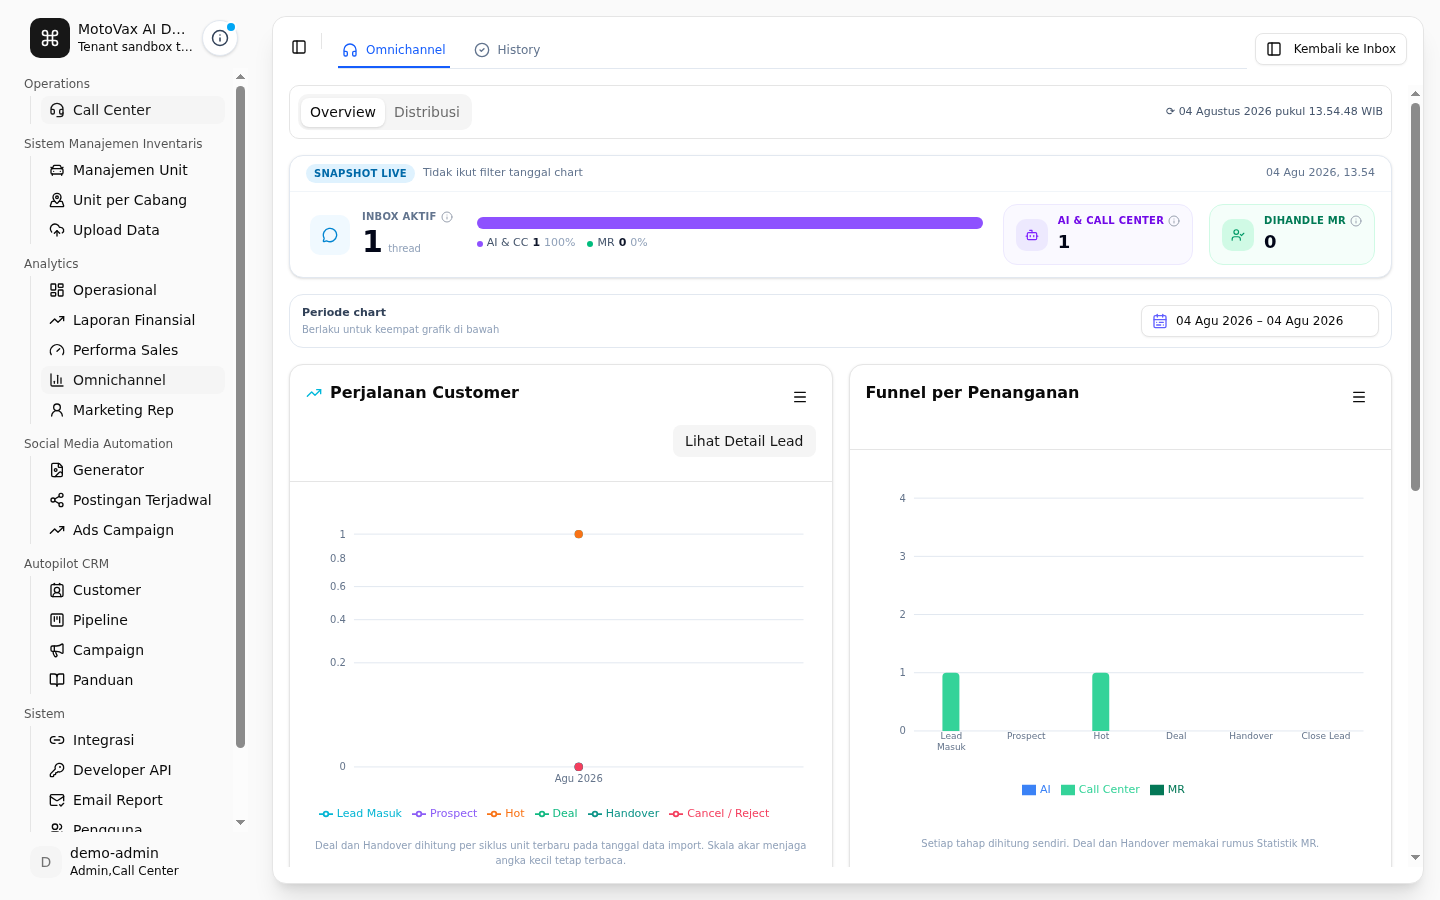
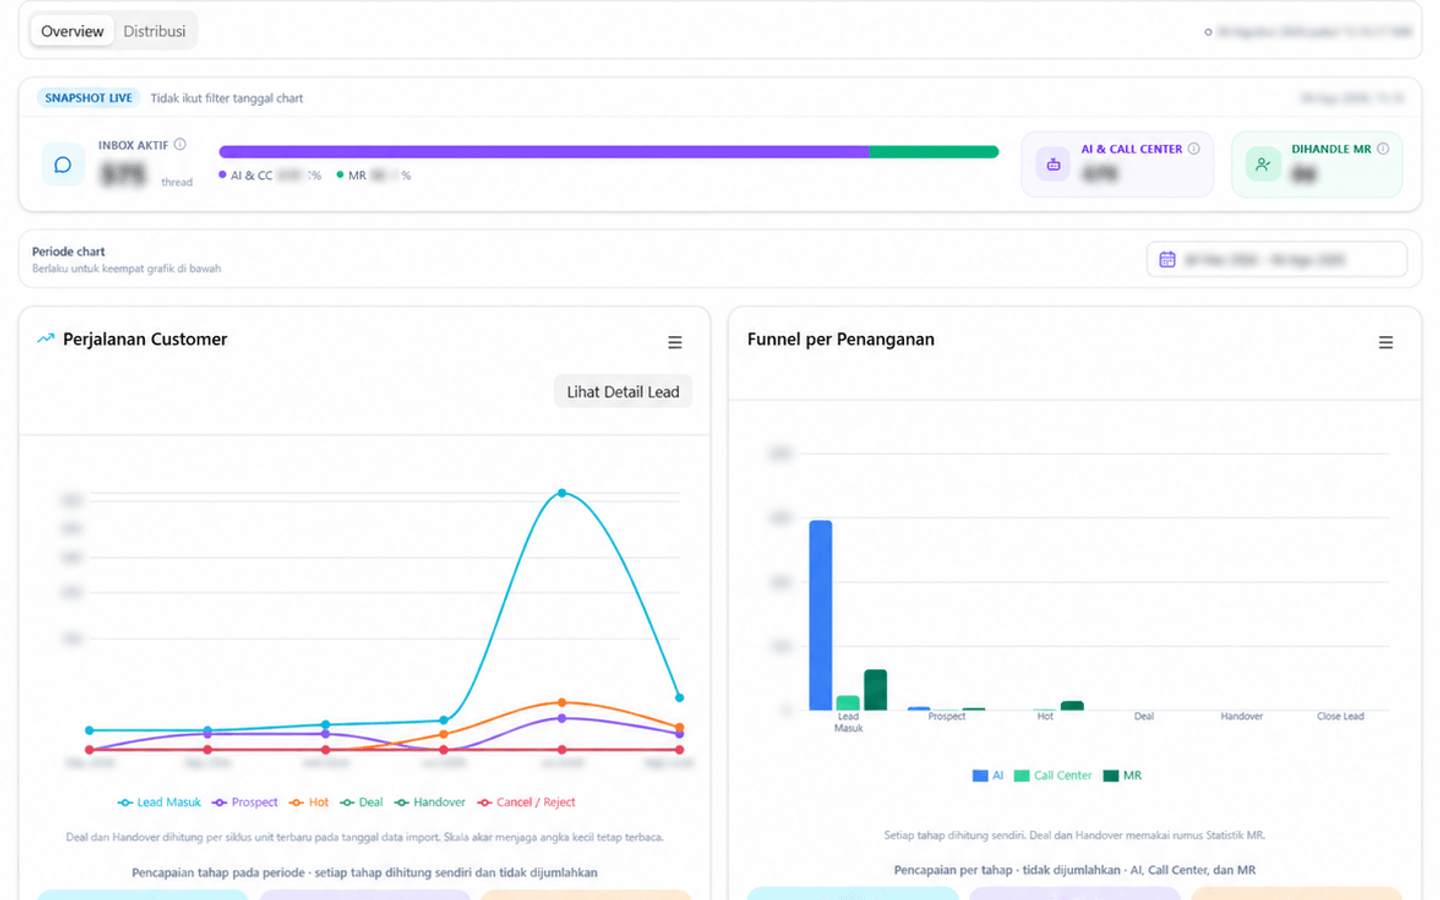
fix(omnichannel): koreksi visual aksi cepat dan analytics
Release-Feature: Aplikasi Omnichannel
Release-Note: Visual fitur kini menampilkan pencarian inventori dari Call Center dan analytics dengan data sensitif tersamarkan.

diff --git a/fitur/feature-page.js b/fitur/feature-page.js
@@ -588,11 +588,11 @@
     } else if (matches(/handoff|takeover|eskalasi/i)) {
       preview = captured("omnichannel-handoff-public.png", "Call Center · Handoff ke MR", "Agent memilih MR, alasan, dan catatan sebelum menyerahkan lead.");
     } else if (matches(/aksi cepat|inventori|stok akurat|konteks stok|unit ready/i)) {
-      preview = captured("omnichannel-inventory-public.png", "Manajemen Unit · Inventori", "Unit demo tampil langsung dari Manajemen Unit pada aplikasi produksi.");
+      preview = captured("omnichannel-inventory-public.png", "Call Center · Cek Inventori", "Agent mencari unit ready langsung dari Aksi Cepat tanpa meninggalkan percakapan.");
     } else if (matches(/performa omnichannel|manajemen-sla|metrik channel|respons realtime|realtime sse/i)) {
       preview = /realtime sse/i.test(capabilityTitle)
         ? captured("omnichannel-realtime-public.png", "Call Center · SSE realtime aktif", "Status koneksi realtime dan perubahan conversation terlihat dalam satu workspace.")
-        : captured("omnichannel-performance-public.png", "Analytics · Performa Call Center", "Ringkasan inbox, AI, MR, dan eskalasi membantu pemantauan layanan.");
+        : captured("omnichannel-performance-public.png", "Analytics · Performa Omnichannel", "Journey customer dan funnel penanganan membantu tim memantau hasil AI, Call Center, dan MR.");
     } else if (matches(/aplikasi-omnichannel|instagram-api|embedded-live-chat|ticket-creation|customer-service|sistem-manajemen-tiket|aplikasi-call-center|motovax-service-suite|integrasi-airene|omnichannel inbox|multi-channel|multi-channel|dm di inbox|status percakapan|riwayat channel|channel bisnis|call center workspace|satu model inbox|multi-channel/i)) {
       preview = captured("omnichannel-multichannel-public.png", "Inbox · WhatsApp / Facebook / Instagram", "Percakapan dan filter channel tersedia dalam satu workspace Call Center.");
     } else if (matches(/broadcast|blast|bulk|ctwa|ads campaign|promo unit|outbound scale|segment|template ai|campaign insight/i)) {
